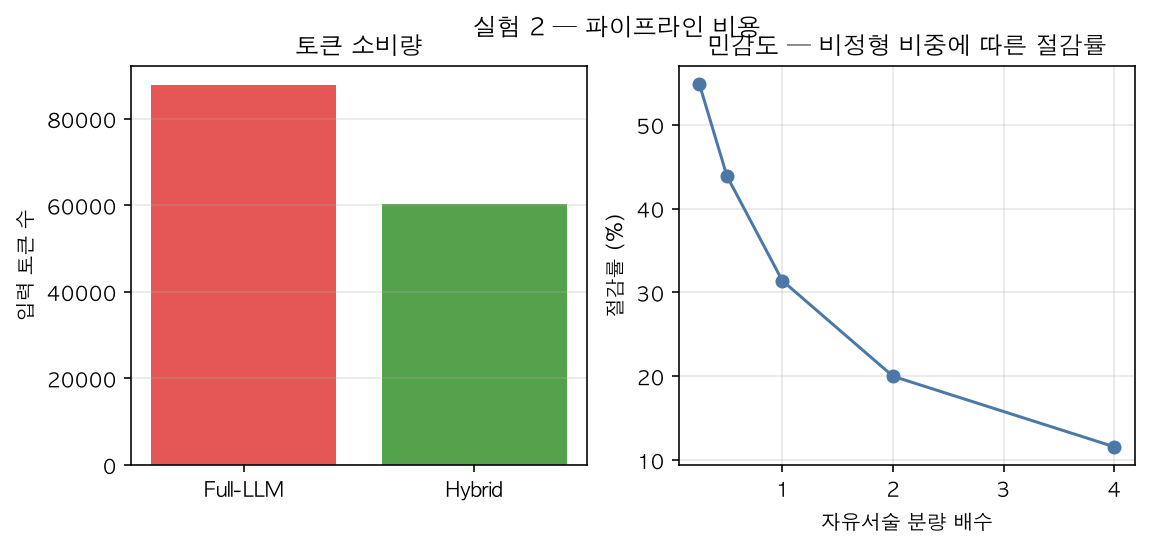
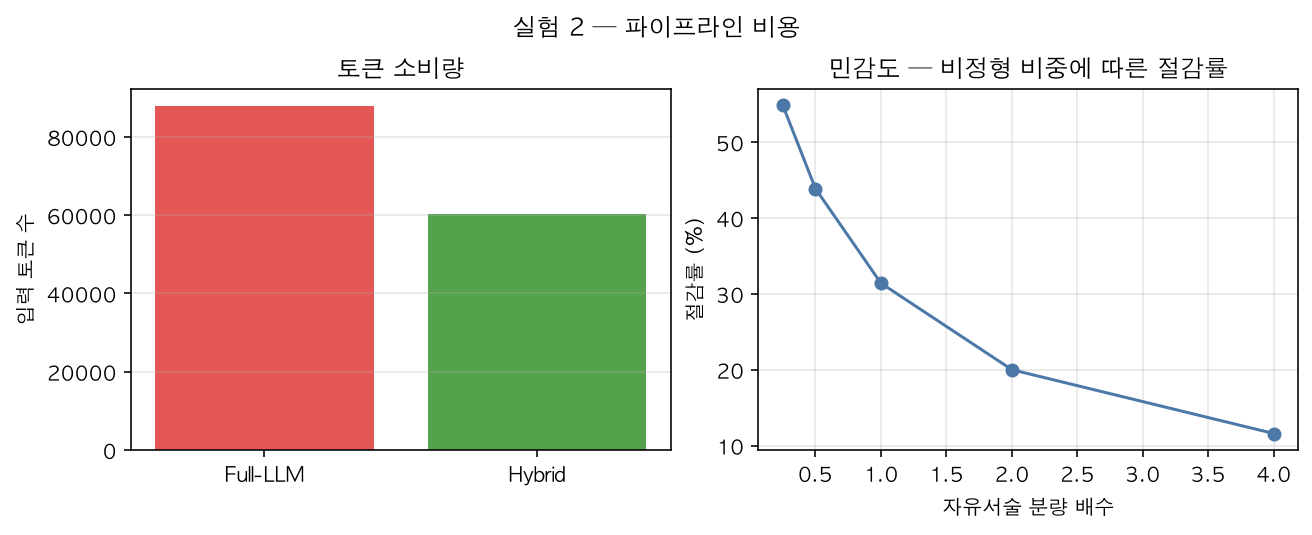
fix: resolve exp2 title collision and cover cap-grouping and tick formatting in tests
exp2_savings.png had its suptitle and right-subplot title interleaving
glyphs at the default layout (brief's verbatim figsize=(9, 3.6) with no
reserved title band); constrained_layout=True fixes it (confirmed by
reopening the regenerated PNG). Also adds two regression tests that were
missing: one exercises exp3_tradeoff's (algorithm, pair_cap) grouping
branch (the brief's fixture never had a pair_cap field, so the dashed-
linestyle path never ran under test), and one asserts rendered log-axis
tick labels are plain decimals with no mathtext markers ($, ^), guarding
_plain_log_formatter against silently reverting to the broken-glyph
default. Both were verified RED against the pre-fix code before being
confirmed GREEN against the real implementation.

diff --git a/tests/test_plots.py b/tests/test_plots.py
@@ -24,3 +24,67 @@ def test_plot_functions_write_png(tmp_path, monkeypatch):
                        {"algorithm": "milp", "n_people": 50, "budget_violations": 0}]}}
     p3 = plots.exp3_tradeoff(exp3)
     assert p3.exists() and p3.stat().st_size > 1000
+
+
+def _capture_saved_figure(monkeypatch, tmp_path):
+    """plots._save를 가로채 fig.savefig 이후 plt.close()로 사라지기 전에
+    Figure 객체 자체를 붙잡는다(실제 저장은 그대로 수행한다)."""
+    monkeypatch.setattr(plots, "FIGURES_DIR", tmp_path)
+    captured = {}
+    real_save = plots._save
+
+    def spy_save(fig, name):
+        captured[name] = fig
+        return real_save(fig, name)
+
+    monkeypatch.setattr(plots, "_save", spy_save)
+    return captured
+
+
+def test_exp3_tradeoff_keeps_pair_caps_as_separate_series(tmp_path, monkeypatch):
+    """실제 exp3_algorithm.json처럼 MILP가 n_people당 pair_cap(1000/5000)별로
+    별도 violations 행을 갖는 경우, 두 cap이 하나의 "milp" 선으로 뭉개지지
+    않고 서로 다른 선(라벨·선 스타일)으로 남아야 한다. n_people만으로
+    정렬·연결하는 순진한 구현이라면 같은 x=50에서 두 cap의 점이 하나의
+    "milp" 라인으로 섞여 이 테스트가 실패한다."""
+    captured = _capture_saved_figure(monkeypatch, tmp_path)
+    exp3 = {"data": {"rows": [
+        {"algorithm": "greedy", "n_people": 50, "solve_ms": 5.0, "optimization_ratio": 0.70},
+        {"algorithm": "milp", "n_people": 50, "solve_ms": 800.0, "optimization_ratio": 0.93}],
+        "violations": [
+            {"algorithm": "greedy", "n_people": 50, "budget_violations": 2},
+            {"algorithm": "milp", "n_people": 50, "pair_cap": 1000, "budget_violations": 0},
+            {"algorithm": "milp", "n_people": 50, "pair_cap": 5000, "budget_violations": 1},
+        ]}}
+    plots.exp3_tradeoff(exp3)
+
+    ax2 = captured["exp3_tradeoff.png"].axes[1]
+    lines_by_label = {line.get_label(): line for line in ax2.get_lines()}
+    assert lines_by_label.keys() == {"greedy", "milp (cap=1000)", "milp (cap=5000)"}
+    assert list(lines_by_label["milp (cap=1000)"].get_ydata()) == [0]
+    assert list(lines_by_label["milp (cap=5000)"].get_ydata()) == [1]
+    assert (lines_by_label["milp (cap=1000)"].get_linestyle()
+            != lines_by_label["milp (cap=5000)"].get_linestyle())
+
+
+def test_log_axis_ticks_are_plain_decimals_not_mathtext(tmp_path, monkeypatch):
+    """한글 폰트(예: AppleGothic)는 mathtext의 유니코드 마이너스(U+2212)
+    글리프가 없어, 로그축의 기본 지수 표기("$\\mathdefault{10^{-2}}$")가
+    음의 지수에서 깨진 기호로 렌더링된다. plots.py는 이를 피하려고 로그축
+    포매터를 일반 십진 문자열("0.01")로 바꿔 두었다 — 그 결과물이 실제로
+    mathtext 마커($, ^)를 포함하지 않는지 렌더된 눈금 라벨 텍스트로 직접
+    검증한다."""
+    captured = _capture_saved_figure(monkeypatch, tmp_path)
+    exp1 = {"data": {"rows": [
+        {"backend": "sqlite", "n_people": 50, "hops": 1, "median_ms": 0.02, "p95_ms": 0.03},
+        {"backend": "sqlite", "n_people": 1000, "hops": 1, "median_ms": 20.0, "p95_ms": 25.0},
+    ]}}
+    plots.exp1_crossover(exp1)
+
+    fig = captured["exp1_crossover.png"]
+    ax = fig.axes[0]
+    fig.canvas.draw()  # 눈금 라벨 텍스트를 실제로 계산시킨다
+    labels = [t.get_text() for t in ax.yaxis.get_majorticklabels()]
+    assert labels, "y축 눈금 라벨이 생성되지 않았다"
+    assert all("$" not in lbl and "^" not in lbl for lbl in labels), labels
+    assert any(lbl.startswith("0.") for lbl in labels), labels  # 음의 지수 구간 포함

diff --git a/experiments/bench/plots.py b/experiments/bench/plots.py
@@ -86,7 +86,11 @@ def exp1_crossover(result: dict) -> Path:
 
 def exp2_savings(result: dict) -> Path:
     d = result["data"]
-    fig, (ax1, ax2) = plt.subplots(1, 2, figsize=(9, 3.6))
+    # constrained_layout: 기본 레이아웃은 서브플롯 타이틀("민감도 — …")과
+    # fig.suptitle("실험 2 — …")이 같은 수평 밴드에서 겹쳐 글자가 뒤섞였다
+    # (실측 확인 후 발견) — constrained_layout이 suptitle을 위한 공간을
+    # 자동으로 예약해 이를 피한다.
+    fig, (ax1, ax2) = plt.subplots(1, 2, figsize=(9, 3.6), constrained_layout=True)
     tokens = d["token_counts"]
     ax1.bar(["Full-LLM", "Hybrid"], [tokens["full_llm"], tokens["hybrid"]],
             color=["#E45756", "#54A24B"])
